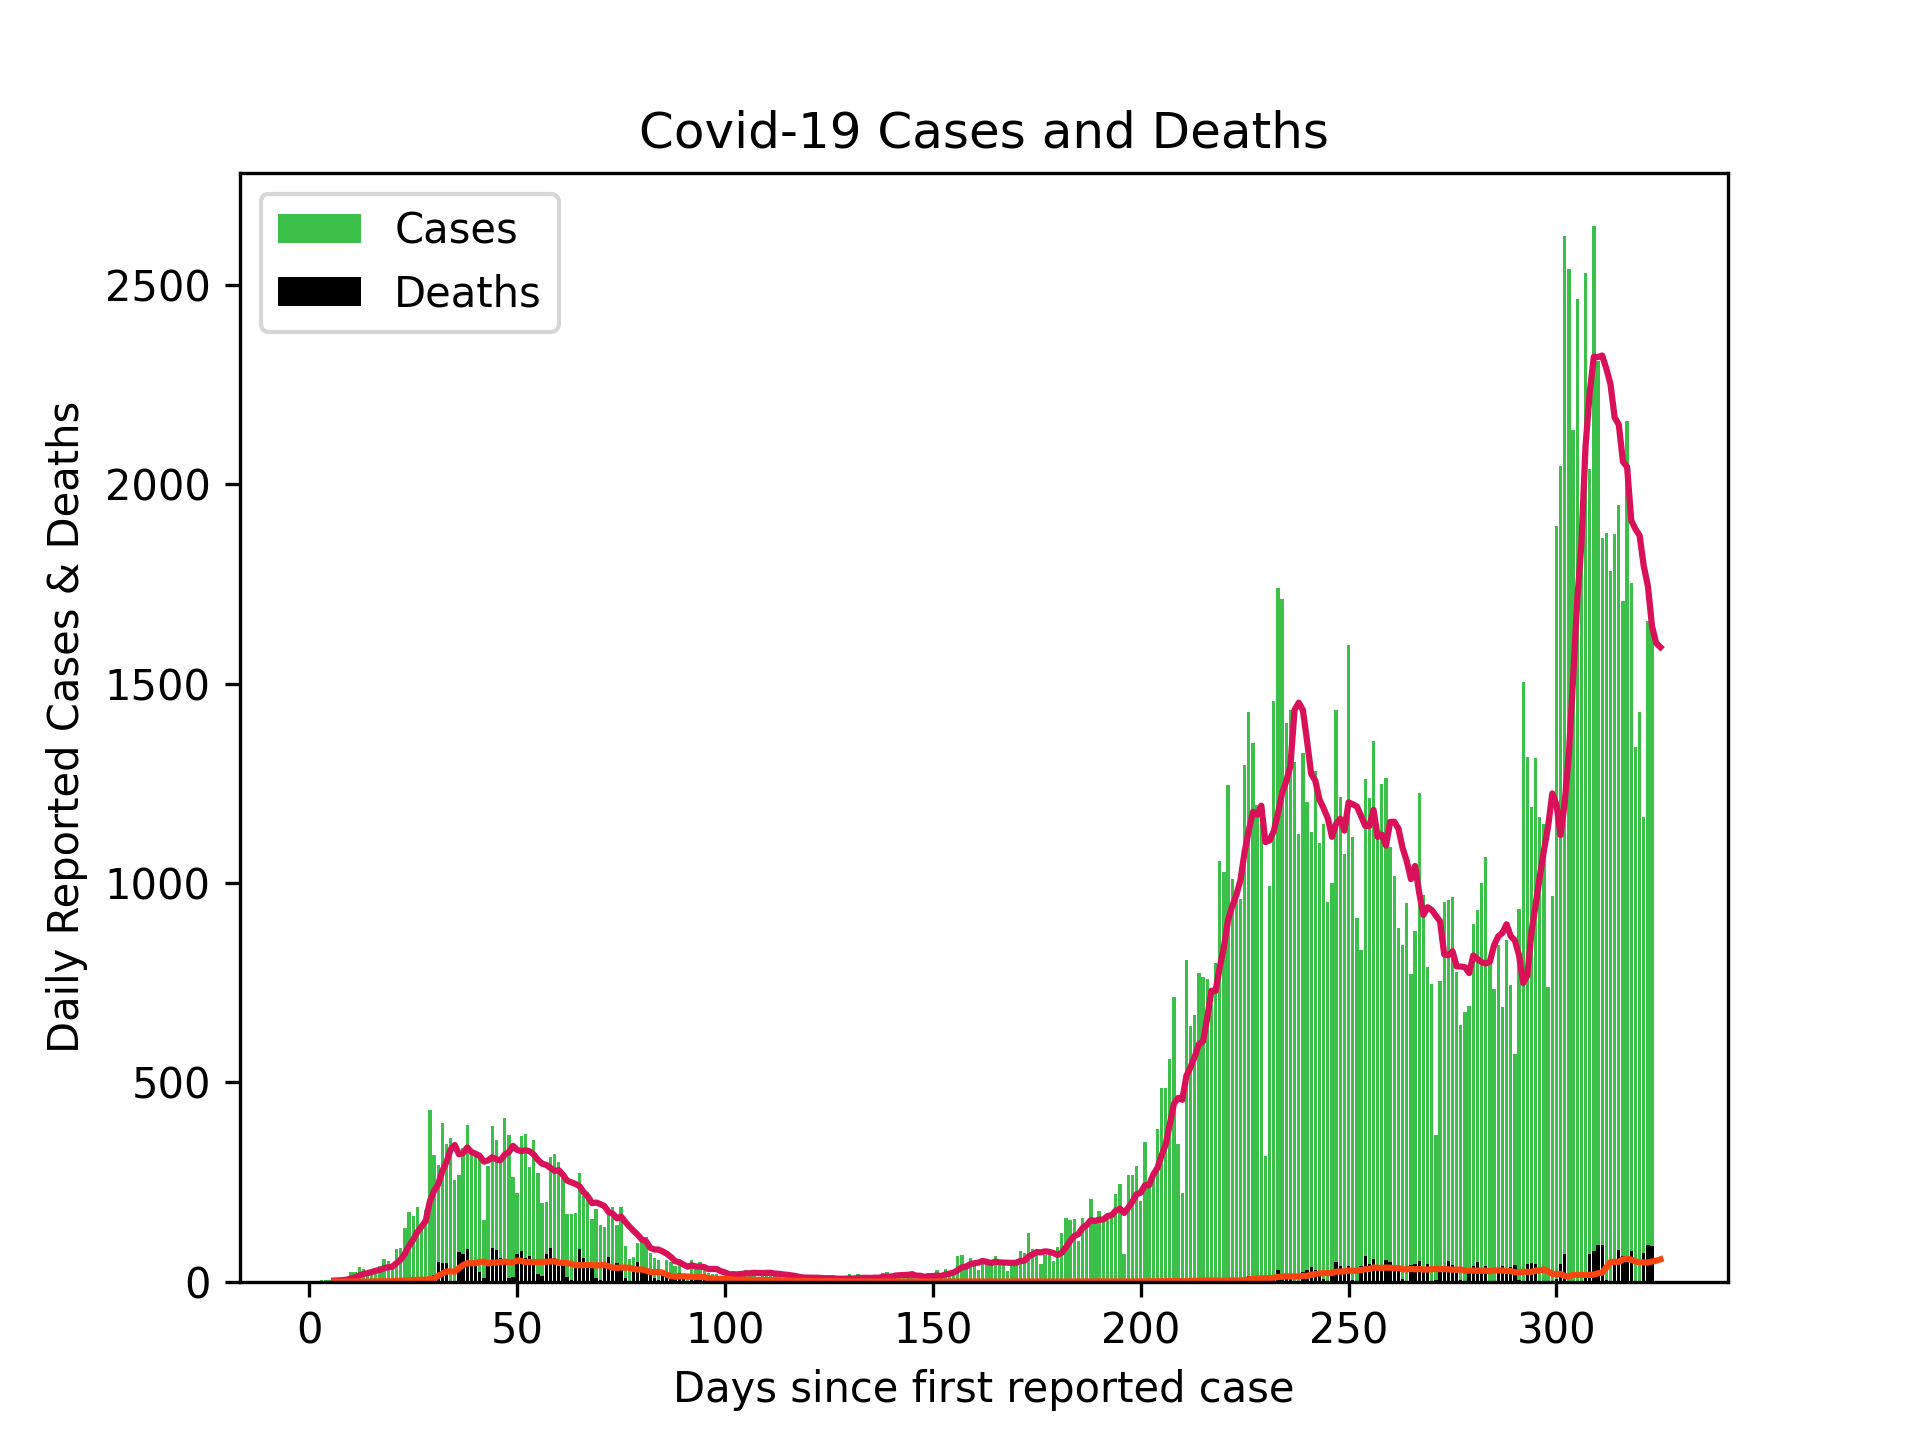
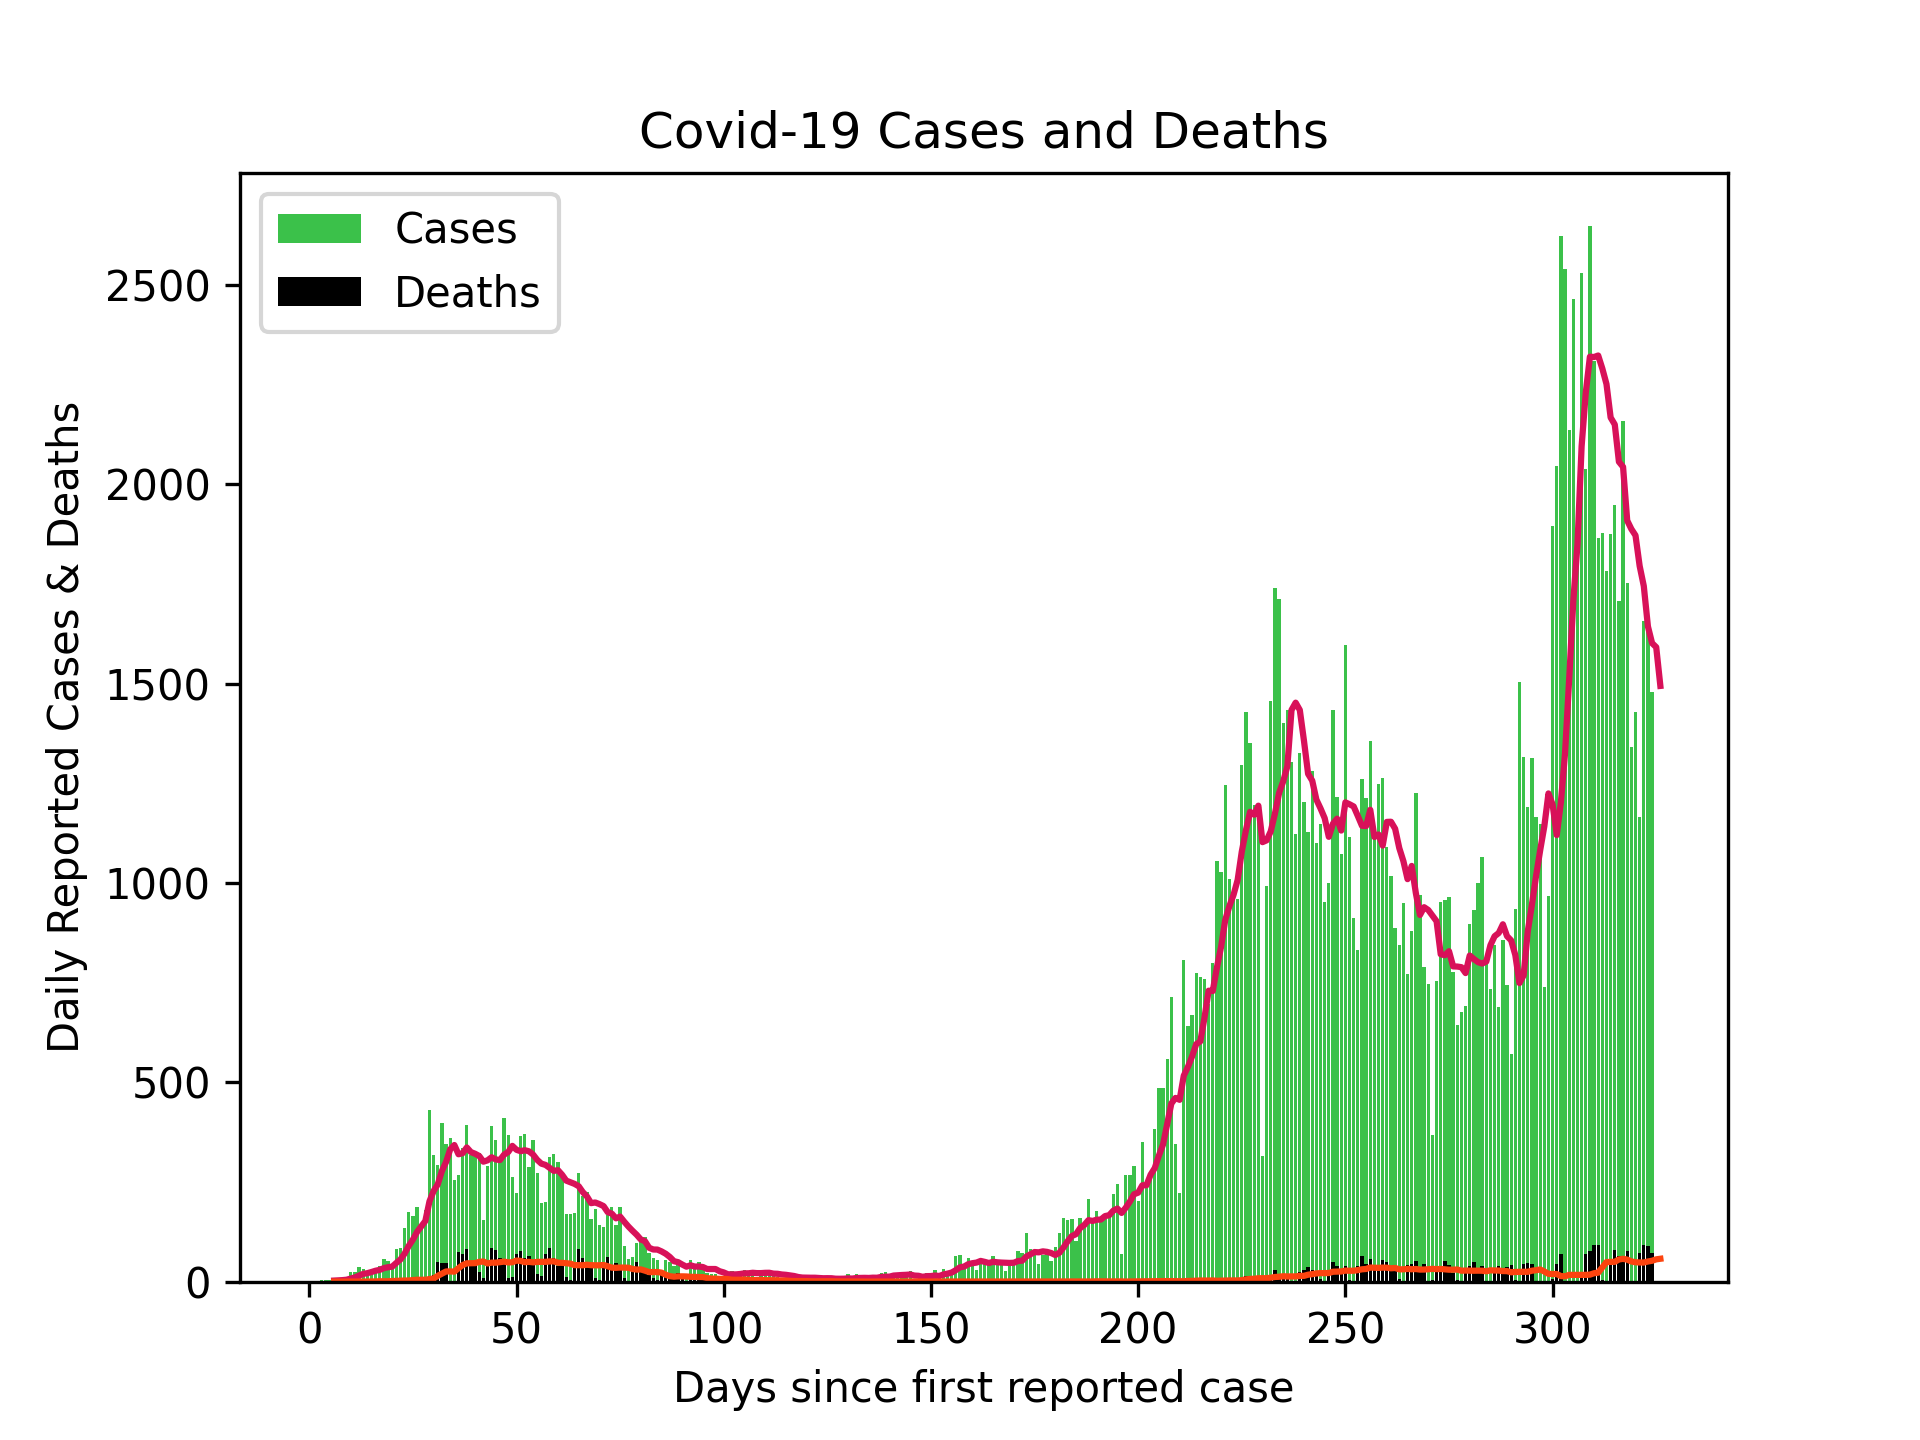
Updated Scottish cases 22/01/21

diff --git a/README.md b/README.md
@@ -1,4 +1,4 @@
-# Scottish Cases 21/01/21
+# Scottish Cases 22/01/21
 
 ![alt](scottish_cases.png)
 
